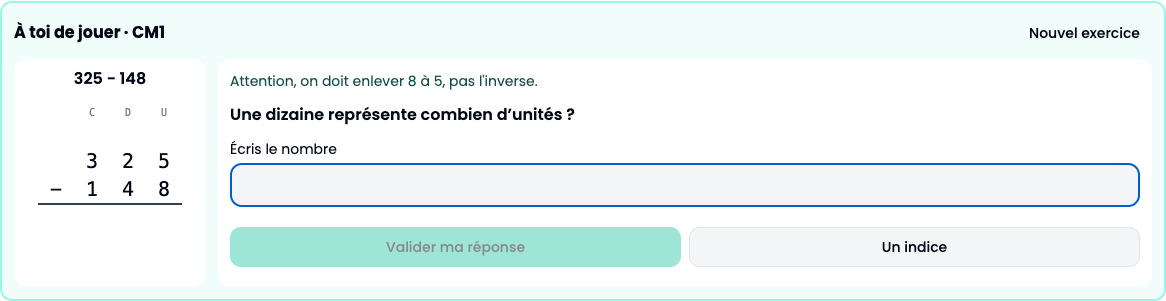
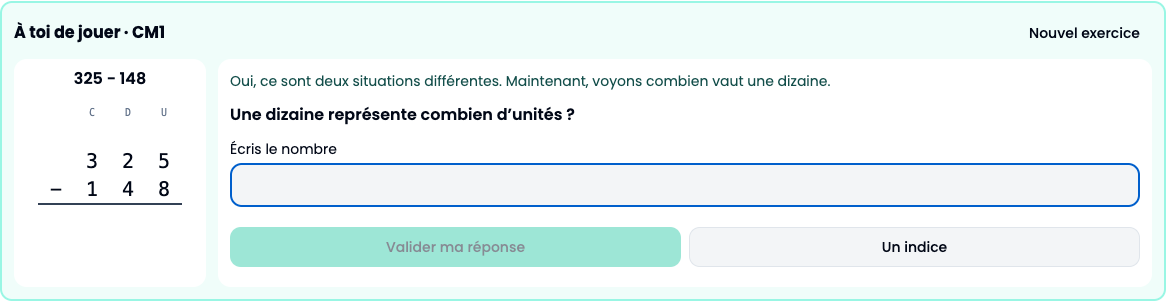
feat(stuwy): explain reversed subtraction reasoning

Changed region(s): [[0.1852, 0.2392, 0.7101, 0.299]]

diff --git a/src/pages/dev/InteractiveStudentSession.tsx b/src/pages/dev/InteractiveStudentSession.tsx
@@ -1,7 +1,7 @@
 import { useEffect, useRef, useState } from 'react';
 import { Button } from '@/components/ui/button';
 import { CompactMathStepper } from '@/components/math/CompactMathStepper';
-import { continueAfterDemonstration, createInteractiveTutorSession, demonstrateTutorStep, demonstrationExpression, isTransferStage, requestTutorHint, resumeWithSupport, retryTutorQuestion, submitTutorResponse } from '@/features/explanations/interactiveTutorSession';
+import { beginCorrectionCheck, continueAfterDemonstration, createInteractiveTutorSession, demonstrateTutorStep, demonstrationExpression, isTransferStage, requestTutorHint, resumeWithSupport, retryTutorQuestion, submitTutorResponse } from '@/features/explanations/interactiveTutorSession';
 
 // This is a development-only interactive scenario, not a production lesson generator.
 export function InteractiveStudentSession({ grade }: { grade: string }) {
@@ -21,7 +21,7 @@ export function InteractiveStudentSession({ grade }: { grade: string }) {
     input.current?.focus({ preventScroll: true });
   }, [session.step, session.prerequisite, session.state]);
   const transfer = isTransferStage(session);
-  const active = !['complete', 'demonstrate', 'needs-support'].includes(session.state);
+  const active = !['complete', 'demonstrate', 'correction-explanation', 'needs-support'].includes(session.state);
   const submit = () => { setSession(current => submitTutorResponse(current, answer)); setAnswer(''); };
   const numeric = session.step > 0 || session.prerequisite;
   return <section id="student-session" data-testid="interactive-student-session" className="min-w-0 rounded-xl border-2 border-teal-200 bg-teal-50 p-3 dark:bg-teal-950/20">
@@ -45,10 +45,11 @@ export function InteractiveStudentSession({ grade }: { grade: string }) {
         </div>
       </div>
       <div className="min-w-0 rounded-lg bg-white p-3 dark:bg-slate-950">
-        {session.feedback && <p role="status" aria-live="polite" className="mb-3 text-sm text-teal-900 dark:text-teal-100">{session.feedback}</p>}
-        {session.state === 'complete' ? <><h4 className="font-bold">Séance terminée</h4><p className="mt-2 text-sm">Tu as terminé l’exemple et le calcul de transfert. Cela ne prouve pas encore une maîtrise durable.</p></> : session.state === 'needs-support' ? <><p className="font-semibold">Continuons avec un accompagnant</p><p className="mt-2">{session.question}</p><Button className="mt-3 h-auto whitespace-normal" onClick={() => setSession(resumeWithSupport)}>Reprendre avec mon accompagnant</Button></> : session.state === 'demonstrate' ? <><p className="mb-2 text-sm">Démonstration TwoCards : {demonstrationExpression(session)}. Ce petit calcul prépare la question.</p><Button className="sticky top-2 z-10 mb-3 h-auto min-h-11 w-full whitespace-normal" onClick={() => setSession(continueAfterDemonstration)}>À moi de répondre</Button><CompactMathStepper key={demonstrationExpression(session)} expression={demonstrationExpression(session)} /></> : active && <>
+        {session.feedback && session.state !== 'correction-explanation' && <p role="status" aria-live="polite" className="mb-3 text-sm text-teal-900 dark:text-teal-100">{session.feedback}</p>}
+        {session.state === 'complete' ? <><h4 className="font-bold">Séance terminée</h4><p className="mt-2 text-sm">Tu as terminé l’exemple et le calcul de transfert. Cela ne prouve pas encore une maîtrise durable.</p></> : session.state === 'needs-support' ? <><p className="font-semibold">Continuons avec un accompagnant</p><p className="mt-2">{session.question}</p><Button className="mt-3 h-auto whitespace-normal" onClick={() => setSession(resumeWithSupport)}>Reprendre avec mon accompagnant</Button></> : session.state === 'correction-explanation' && session.correction ? <div data-testid="pedagogical-correction" className="space-y-3"><p className="font-semibold">Comprenons pourquoi</p><p>{session.correction.explanation}</p><p className="text-sm text-slate-700 dark:text-slate-200">{session.correction.concreteExample}</p><div className="grid gap-2 sm:grid-cols-2"><div className="rounded border p-2"><p className="mb-1 text-xs font-medium">Tu as proposé</p><CompactMathStepper expression={session.correction.exampleExpressions[0]} /></div><div className="rounded border p-2"><p className="mb-1 text-xs font-medium">Dans cette colonne</p><div className="flex min-h-40 flex-col items-center justify-center rounded bg-slate-50 p-3 font-mono text-2xl dark:bg-slate-900" aria-label="Cinq moins huit"><span>5</span><span className="border-b-2 border-slate-700">− 8</span><span className="mt-2 text-sm font-sans text-slate-600 dark:text-slate-300">Il manque des unités pour continuer dans les nombres naturels.</span></div></div></div><p className="text-sm font-medium">{session.correction.principle}</p><Button className="h-auto w-full whitespace-normal" onClick={() => setSession(beginCorrectionCheck)}>Vérifier si tu as compris</Button></div> : session.state === 'demonstrate' ? <><p className="mb-2 text-sm">Démonstration TwoCards : {demonstrationExpression(session)}. Ce petit calcul prépare la question.</p><Button className="sticky top-2 z-10 mb-3 h-auto min-h-11 w-full whitespace-normal" onClick={() => setSession(continueAfterDemonstration)}>À moi de répondre</Button><CompactMathStepper key={demonstrationExpression(session)} expression={demonstrationExpression(session)} /></> : active && <>
           <h4 data-testid="active-question" className="font-semibold" aria-live="polite">{session.question}</h4>
-          {!numeric && <details className="mt-2"><summary className="cursor-pointer text-sm">Choisir une réponse</summary><div className="mt-2 grid gap-2" role="group" aria-label="Réponses proposées">{['J’échange une dizaine contre 10 unités', 'Je calcule 8 moins 5', 'Je commence par les dizaines'].map(choice => <Button key={choice} variant="outline" className="h-auto min-h-11 whitespace-normal text-left" onClick={() => setAnswer(choice)}>{choice}</Button>)}</div></details>}
+          {session.state === 'correction-check' && <div className="mt-2 grid gap-2" role="group" aria-label="Réponses de compréhension">{['Oui, ce sont deux situations différentes.', 'Non, c’est la même situation.'].map(choice => <Button key={choice} type="button" variant="outline" className="h-auto min-h-11 whitespace-normal text-left" onClick={() => setAnswer(choice)}>{choice}</Button>)}</div>}
+          {!numeric && session.state === 'awaiting-response' && <details className="mt-2"><summary className="cursor-pointer text-sm">Choisir une réponse</summary><div className="mt-2 grid gap-2" role="group" aria-label="Réponses proposées">{['J’échange une dizaine contre 10 unités', 'Je calcule 8 moins 5', 'Je commence par les dizaines'].map(choice => <Button key={choice} variant="outline" className="h-auto min-h-11 whitespace-normal text-left" onClick={() => setAnswer(choice)}>{choice}</Button>)}</div></details>}
           <form className="mt-3" onSubmit={event => { event.preventDefault(); submit(); }}>
             <label className="block text-sm">{numeric ? 'Écris le nombre' : 'Écris ton idée'}<input ref={input} value={answer} onChange={event => setAnswer(event.target.value)} inputMode={numeric ? 'numeric' : 'text'} autoComplete="off" className="mt-1 h-11 w-full min-w-0 rounded-md border bg-background px-3" aria-label="Ta réponse" /></label>
             <div className="mt-3 grid grid-cols-1 gap-2 bg-white py-2 dark:bg-slate-950 sm:grid-cols-2">

diff --git a/src/features/explanations/interactiveTutorSession.ts b/src/features/explanations/interactiveTutorSession.ts
@@ -1,5 +1,6 @@
-export type InteractiveTutorState = 'awaiting-response' | 'feedback' | 'hint' | 'demonstrate' | 'transfer' | 'complete' | 'needs-support';
+export type InteractiveTutorState = 'awaiting-response' | 'feedback' | 'hint' | 'demonstrate' | 'correction-explanation' | 'correction-check' | 'transfer' | 'complete' | 'needs-support';
 export type InteractiveMisconception = 'reversed-subtraction' | 'incorrect-arithmetic-fact' | 'skipped-units' | 'insufficient-evidence';
+import { createPedagogicalCorrection, understandsCorrection, type PedagogicalCorrection } from './pedagogicalCorrection';
 
 // Stage is independent of presentation state: hints and demonstrations cannot lose the question.
 export interface InteractiveTutorSession {
@@ -17,6 +18,8 @@ export interface InteractiveTutorSession {
   criticalStepIndependent: boolean;
   transferAttempts: number;
   prerequisite: boolean;
+  correction?: PedagogicalCorrection;
+  correctionCheckAttempts: number;
 }
 
 const stages = [
@@ -40,7 +43,7 @@ const activeState = (session: InteractiveTutorSession): InteractiveTutorState =>
 const terminal = (session: InteractiveTutorSession) => session.state === 'complete' || session.state === 'needs-support';
 
 export function createInteractiveTutorSession(): InteractiveTutorSession {
-  return { state: 'awaiting-response', step: 0, hintLevel: 0, attempts: [], question: stages[0].question, feedback: '', assistanceLevel: 0, hintLevelsByStep: {}, demonstrationUsed: false, demonstratedSteps: [], criticalStepIndependent: false, transferAttempts: 0, prerequisite: false };
+  return { state: 'awaiting-response', step: 0, hintLevel: 0, attempts: [], question: stages[0].question, feedback: '', assistanceLevel: 0, hintLevelsByStep: {}, demonstrationUsed: false, demonstratedSteps: [], criticalStepIndependent: false, transferAttempts: 0, prerequisite: false, correctionCheckAttempts: 0 };
 }
 
 function prerequisite(session: InteractiveTutorSession): InteractiveTutorSession {
@@ -50,6 +53,11 @@ function prerequisite(session: InteractiveTutorSession): InteractiveTutorSession
 export function submitTutorResponse(session: InteractiveTutorSession, answer: string): InteractiveTutorSession {
   if (!answer.trim() || terminal(session) || session.state === 'demonstrate') return session;
   const normalized = normalize(answer).replace(/[−–]/g, '-');
+  if (session.state === 'correction-check' && session.correction) {
+    const understood = understandsCorrection(session.correction, answer);
+    if (understood) return { ...session, state: 'awaiting-response', step: 1, question: stages[1].question, feedback: 'Oui, ce sont deux situations différentes. Maintenant, voyons combien vaut une dizaine.', correctionCheckAttempts: session.correctionCheckAttempts + 1 };
+    return { ...session, state: 'correction-explanation', feedback: session.correction.simplerExplanation, correctionCheckAttempts: session.correctionCheckAttempts + 1 };
+  }
   const numeric = normalized.replace(/\s*(unites?|dizaines?|centaines?)\.?$/, '').trim();
   const approach = /^(j['’]echange|echange[r]?|j['’]emprunte|emprunter) (une|1) dizaine (contre|pour|en) (10|dix) unites\.?$/.test(normalized);
   const correct = session.prerequisite ? numeric === '10' : session.step === 0 ? approach : numeric === stages[session.step].answer;
@@ -62,7 +70,10 @@ export function submitTutorResponse(session: InteractiveTutorSession, answer: st
     const step = session.step === 0 ? 2 : session.step + 1;
     return { ...updated, step, state: step === 9 ? 'transfer' : 'awaiting-response', hintLevel: 0, question: stages[step].question, feedback: stages[session.step].feedback, criticalStepIndependent: session.criticalStepIndependent || (session.step === 0 && session.attempts.length === 0 && session.hintLevel === 0 && !session.demonstrationUsed) };
   }
-  if (session.step === 0 && !session.prerequisite) return { ...updated, step: 1, state: 'awaiting-response', hintLevel: 0, question: stages[1].question, feedback: misconception === 'reversed-subtraction' ? "Attention, on doit enlever 8 à 5, pas l'inverse." : misconception === 'skipped-units' ? 'Commençons par les unités. Regardons ce que vaut une dizaine.' : 'Vérifions ensemble ce que vaut une dizaine.' };
+  if (session.step === 0 && !session.prerequisite) {
+    const correction = createPedagogicalCorrection(misconception ?? 'insufficient-evidence', answer);
+    return { ...updated, state: 'correction-explanation', correction, correctionCheckAttempts: 0, feedback: correction.explanation };
+  }
   const failures = attempts.filter(a => a.step === session.step && a.prerequisite === session.prerequisite && !a.isCorrect).length;
   if (session.prerequisite && failures >= 2) return { ...updated, state: 'needs-support', feedback: 'Fais deux groupes de cinq objets avec un adulte. Comptez-les ensemble avant de reprendre.' };
   if (!session.prerequisite && failures >= 3 && session.demonstratedSteps.includes(session.step)) {
@@ -86,6 +97,11 @@ export function requestTutorHint(session: InteractiveTutorSession): InteractiveT
 export function retryTutorQuestion(session: InteractiveTutorSession): InteractiveTutorSession {
   if (terminal(session) || session.state === 'demonstrate') return session;
   return { ...session, state: activeState(session), feedback: 'À toi : réponds à la question ci-dessous.' };
+}
+
+export function beginCorrectionCheck(session: InteractiveTutorSession): InteractiveTutorSession {
+  if (session.state !== 'correction-explanation' || !session.correction) return session;
+  return { ...session, state: 'correction-check', question: session.correction.understandingQuestion, feedback: 'À toi : explique avec tes mots ou choisis une réponse.' };
 }
 
 export function demonstrateTutorStep(session: InteractiveTutorSession): InteractiveTutorSession {

diff --git a/src/features/explanations/interactiveTutorSession.test.ts b/src/features/explanations/interactiveTutorSession.test.ts
@@ -1,22 +1,50 @@
 import { describe, expect, it } from 'vitest';
-import { continueAfterDemonstration, createInteractiveTutorSession, requestTutorHint, retryTutorQuestion, submitTutorResponse } from './interactiveTutorSession';
+import { beginCorrectionCheck, continueAfterDemonstration, createInteractiveTutorSession, requestTutorHint, retryTutorQuestion, submitTutorResponse } from './interactiveTutorSession';
+import { createPedagogicalCorrection } from './pedagogicalCorrection';
 
 describe('interactive tutor session hotfix', () => {
   const remediate = () => submitTutorResponse(createInteractiveTutorSession(), '8 - 5');
+  const understood = () => submitTutorResponse(beginCorrectionCheck(remediate()), 'Oui, ce sont deux situations différentes');
   const transfer = () => {
-    let s = remediate();
+    let s = understood();
     for (const answer of ['10', '15', '7', '1', '11', '7', '1', '177']) s = submitTutorResponse(s, answer);
     return s;
   };
   it('replaces the question with an answerable prerequisite', () => {
     const s = remediate();
-    expect(s.step).toBe(1);
-    expect(s.question).toBe('Une dizaine représente combien d’unités ?');
-    expect(s.feedback).toContain("pas l'inverse");
+    expect(s.step).toBe(0);
+    expect(s.correction?.understandingQuestion).toContain('même situation');
+    expect(s.feedback).toContain('change le calcul');
     expect(s.lastMisconception).toBe('reversed-subtraction');
   });
-  it('requires every column before transfer', () => {
+  it('explains reversed subtraction, checks understanding, then introduces regrouping', () => {
     let s = remediate();
+    expect(s.state).toBe('correction-explanation');
+    expect(s.correction?.exampleExpressions).toEqual(['8 - 5', '5 - 8']);
+    s = beginCorrectionCheck(s);
+    expect(s.state).toBe('correction-check');
+    s = submitTutorResponse(s, 'Oui, c’est la même situation');
+    expect(s.state).toBe('correction-explanation');
+    s = beginCorrectionCheck(s);
+    s = submitTutorResponse(s, 'Oui, ce sont deux situations différentes');
+    expect(s.step).toBe(1);
+    expect(s.question).toContain('combien d’unités');
+  });
+  it('uses a simpler explanation after an incorrect understanding check', () => {
+    let s = beginCorrectionCheck(remediate());
+    s = submitTutorResponse(s, 'Oui, c’est pareil');
+    expect(s.state).toBe('correction-explanation');
+    expect(s.feedback).toContain('nombre de départ');
+  });
+  it('creates the same typed correction contract for another misconception', () => {
+    const correction = createPedagogicalCorrection('skipped-units', 'Je commence par les dizaines');
+    expect(correction.observedResponse).toContain('dizaines');
+    expect(correction.principle).toContain('colonne');
+    expect(correction.understandingQuestion).toBeTruthy();
+    expect(correction.nextAction).toBe('check-understanding');
+  });
+  it('requires every column before transfer', () => {
+    let s = understood();
     for (const [answer, step] of [['10', 2], ['15', 3], ['7', 4], ['1', 5], ['11', 6], ['7', 7], ['1', 8], ['177', 9]] as const) {
       s = submitTutorResponse(s, answer);
       expect(s.step).toBe(step);
@@ -25,13 +53,13 @@ describe('interactive tutor session hotfix', () => {
     expect(submitTutorResponse(s, '169').state).toBe('complete');
   });
   it.each(['110', '10 + 1', '210', '-10', '10.5'])('rejects incorrect numeric answer %s', answer => {
-    expect(submitTutorResponse(remediate(), answer).attempts.at(-1)?.isCorrect).toBe(false);
+    expect(submitTutorResponse(understood(), answer).attempts.at(-1)?.isCorrect).toBe(false);
   });
   it('accepts the selectable approach', () => {
     expect(submitTutorResponse(createInteractiveTutorSession(), 'J’échange une dizaine contre 10 unités').step).toBe(2);
   });
   it('escalates to demonstration, prerequisite, then human help instead of endless retries', () => {
-    let s = submitTutorResponse(remediate(), '2');
+    let s = submitTutorResponse(understood(), '2');
     s = submitTutorResponse(retryTutorQuestion(s), '2');
     expect(s.state).toBe('demonstrate');
     s = submitTutorResponse(continueAfterDemonstration(s), '2');
@@ -41,7 +69,7 @@ describe('interactive tutor session hotfix', () => {
     expect(submitTutorResponse(s, '2')).toBe(s);
   });
   it('returns from prerequisite without erasing history', () => {
-    let s = remediate();
+    let s = understood();
     for (let n = 0; n < 3; n++) s = requestTutorHint(s);
     expect(s.state).toBe('demonstrate');
     s = requestTutorHint(continueAfterDemonstration(s));

diff --git a/src/features/explanations/pedagogicalCorrection.ts b/src/features/explanations/pedagogicalCorrection.ts
@@ -1,0 +1,57 @@
+import type { InteractiveMisconception } from './interactiveTutorSession';
+
+export type CorrectionNextAction = 'check-understanding' | 'remediate-regrouping';
+
+export interface PedagogicalCorrection {
+  observedResponse: string;
+  misconception: InteractiveMisconception;
+  principle: string;
+  explanation: string;
+  concreteExample: string;
+  exampleExpressions: readonly [string, string];
+  understandingQuestion: string;
+  expectedUnderstanding: readonly string[];
+  nextAction: CorrectionNextAction;
+  simplerExplanation: string;
+}
+
+export function createPedagogicalCorrection(
+  misconception: InteractiveMisconception,
+  observedResponse: string,
+  mastery: 'low' | 'standard' | 'high' = 'standard',
+): PedagogicalCorrection {
+  if (misconception === 'reversed-subtraction') {
+    return {
+      observedResponse,
+      misconception,
+      principle: 'Dans une soustraction, on part du premier nombre et on enlève le second.',
+      explanation: mastery === 'high'
+        ? 'Tu as inversé les deux nombres. Cela change la soustraction : 8 − 5 et 5 − 8 ne décrivent pas la même situation.'
+        : 'Tu as proposé de faire 8 − 5. Mais dans notre exercice, on part de 325 et on enlève 148. Dans la colonne des unités, on part donc de 5 et on enlève 8. Si on inverse les nombres, on change le calcul.',
+      concreteExample: '8 − 5 signifie : partir de 8 et enlever 5. Notre colonne signifie : partir de 5 et enlever 8. En nombres naturels, il manque des unités ; on va échanger une dizaine.',
+      exampleExpressions: ['8 - 5', '5 - 8'],
+      understandingQuestion: 'Si on part de 8 et qu’on enlève 5, est-ce la même situation que partir de 5 et enlever 8 ?',
+      expectedUnderstanding: ['non', 'pas la meme', 'différent', 'différente', 'pas la même'],
+      nextAction: 'check-understanding',
+      simplerExplanation: 'Regarde le nombre de départ : 8 − 5 commence avec 8, tandis que 5 − 8 commence avec 5. Le nombre de départ n’est pas le même.',
+    };
+  }
+
+  return {
+    observedResponse,
+    misconception,
+    principle: 'Chaque colonne se calcule avec les nombres qui y sont écrits.',
+    explanation: 'Ton idée ne correspond pas encore aux nombres de cette colonne. Regardons les nombres présents avant de continuer.',
+    concreteExample: 'On lit d’abord le nombre de départ, puis le nombre que l’on enlève.',
+    exampleExpressions: ['5 - 2', '5 - 3'],
+    understandingQuestion: 'Doit-on utiliser les nombres réellement écrits dans la colonne ?',
+    expectedUnderstanding: ['oui', 'exact', 'd’accord', "d'accord"],
+    nextAction: 'check-understanding',
+    simplerExplanation: 'Lis les deux nombres de la colonne, puis dis si ce sont bien ceux que tu vas utiliser.',
+  };
+}
+
+export function understandsCorrection(correction: PedagogicalCorrection, answer: string): boolean {
+  const normalized = answer.trim().toLowerCase().normalize('NFD').replace(/[\u0300-\u036f]/g, '');
+  return correction.expectedUnderstanding.some(expected => normalized.includes(expected.normalize('NFD').replace(/[\u0300-\u036f]/g, '')));
+}

diff --git a/scripts/visual-regression/student-session-hotfix.py b/scripts/visual-regression/student-session-hotfix.py
@@ -40,9 +40,21 @@ with visual.application_server(URL), sync_playwright() as p:
             s.get_by_text('Choisir une réponse', exact=True).click()
             s.get_by_role('button', name='Je calcule 8 moins 5', exact=True).click()
             s.get_by_role('button', name='Valider ma réponse').click()
+        def understand_correction():
+            expect(s.get_by_test_id('pedagogical-correction')).to_be_visible()
+            s.get_by_role('button', name='Vérifier si tu as compris').click()
+            s.get_by_role('button', name='Oui, ce sont deux situations différentes.').click()
+            s.get_by_role('button', name='Valider ma réponse').click()
         expect(s.get_by_role('button', name='Réessayer', exact=True)).to_have_count(0)
         capture('initial')
         wrong()
+        expect(s.get_by_test_id('pedagogical-correction')).to_contain_text('Tu as proposé de faire 8 − 5')
+        capture('correction-why')
+        s.get_by_role('button', name='Vérifier si tu as compris').click()
+        expect(s.get_by_test_id('active-question')).to_contain_text('même situation')
+        capture('correction-check')
+        s.get_by_role('button', name='Oui, ce sont deux situations différentes.').click()
+        s.get_by_role('button', name='Valider ma réponse').click()
         expect(s.get_by_test_id('active-question')).to_have_text('Une dizaine représente combien d’unités ?')
         expect(s.get_by_role('group', name='Réponses proposées')).to_have_count(0)
         capture('remediation-10')
@@ -72,6 +84,7 @@ with visual.application_server(URL), sync_playwright() as p:
         capture('complete')
         reset()
         wrong()
+        understand_correction()
         answer('2')
         s.get_by_role('button', name='Réessayer', exact=True).click()
         expect(s.get_by_label('Ta réponse')).to_be_editable()
@@ -92,6 +105,7 @@ with visual.application_server(URL), sync_playwright() as p:
         expect(s.get_by_test_id('active-question')).to_contain_text('combien d’unités avons-nous maintenant')
         reset()
         wrong()
+        understand_correction()
         for _ in range(3):
             s.get_by_role('button', name='Un indice', exact=True).click()
         expect(s.get_by_role('button', name='À moi de répondre', exact=True)).to_be_visible()

diff --git a/docs/stuwy-explain-v2/T11_STALL_HOTFIX.md b/docs/stuwy-explain-v2/T11_STALL_HOTFIX.md
@@ -101,3 +101,24 @@ screen-reader experience and mobile software keyboard need manual device review.
 Reduced-motion browser journeys run successfully; no claim is made that this
 hotfix audits every animation inside unchanged TwoCards.
 Product-owner pedagogical approval is still required. No merge or deployment.
+
+## T11.2 — explain why
+
+The prior hotfix classified `8 − 5` correctly but immediately opened the
+ten-unit remediation. T11.2 adds the reusable
+`PedagogicalCorrection` contract in
+`src/features/explanations/pedagogicalCorrection.ts`. It records the observed
+response, misconception hypothesis, principle, explanation, concrete example,
+understanding check and next action. The controller now exposes
+`correction-explanation` and `correction-check` states before step 10.
+
+For the reversed-subtraction case, the student sees the actual proposed
+`8 − 5` through the existing TwoCards stepper, alongside an explicit `5 − 8`
+comparison. The text says that 5 − 8 is not completed in whole-number units in
+this column; it does not claim negative numbers are impossible. The student
+must identify that the two starting situations differ. A wrong check receives
+a shorter explanation about the starting number and can be checked again.
+
+The same typed contract has a generic path for skipped-units and other
+misconception categories, so this is not a text-only special case. The original
+TwoCards stepper, navigation and narration files remain unchanged.

diff --git a/docs/stuwy-explain-v2/TEST_RESULTS.md b/docs/stuwy-explain-v2/TEST_RESULTS.md
@@ -110,3 +110,7 @@ No external AI calls or production database writes were made.
 Validation: 119 test files / 1,158 tests passed; TypeScript, focused lint and build passed. All 74 full-page visual comparisons pass after intentional panel refresh. Eight requested browser journeys pass at mobile and desktop sizes; 20 new screenshots captured. See the report for reviewed images and manual-review limits.
 
 Details: [T11_STALL_HOTFIX.md](./T11_STALL_HOTFIX.md).
+
+T11.2 focused tests: 14 controller/model tests passed; mobile and desktop
+browser journeys passed with correction explanation and understanding-check
+screenshots reviewed. TypeScript, focused lint and production build passed.

diff --git a/docs/stuwy-explain-v2/STATUS.md b/docs/stuwy-explain-v2/STATUS.md
@@ -115,3 +115,6 @@ Visual review completed for representative setup and intermediate frames. No inc
 Development-only stall correction implemented and browser-validated. One active question, exact numeric checks, explicit 10 → 15 → 7 remediation, remaining columns, bounded fallback and transfer. Original TwoCards and speech implementation unchanged. Awaiting product-owner approval; not deployed or merged.
 
 Details: [T11_STALL_HOTFIX.md](./T11_STALL_HOTFIX.md).
+
+T11.2 adds a why-before-remediation correction and understanding check for
+reversed subtraction. Product-owner review remains pending.

diff --git a/docs/stuwy-explain-v2/QUALITY.md b/docs/stuwy-explain-v2/QUALITY.md
@@ -56,3 +56,7 @@ manual pass.
 Acceptance now requires wrong-answer → 10 → 15 → 7 → remaining columns → transfer, not merely feedback text or model tests. Original TwoCards and voice files remain unchanged. Screenshots and browser assertions cover the actual student panel. No production approval is implied.
 
 Details: [T11_STALL_HOTFIX.md](./T11_STALL_HOTFIX.md).
+
+T11.2 acceptance requires the visible sequence “why” → comparison →
+understanding check → remediation. A classifier-only feedback string is not
+considered sufficient.

diff --git a/docs/stuwy-explain-v2/TASKS.md b/docs/stuwy-explain-v2/TASKS.md
@@ -82,3 +82,7 @@
 - [ ] Product-owner walkthrough and real-device speech/screen-reader review.
 
 Details: [T11_STALL_HOTFIX.md](./T11_STALL_HOTFIX.md).
+
+- [x] Explain reversed subtraction before introducing regrouping.
+- [x] Add a typed reusable pedagogical correction contract.
+- [x] Check understanding and provide a simpler retry explanation.
